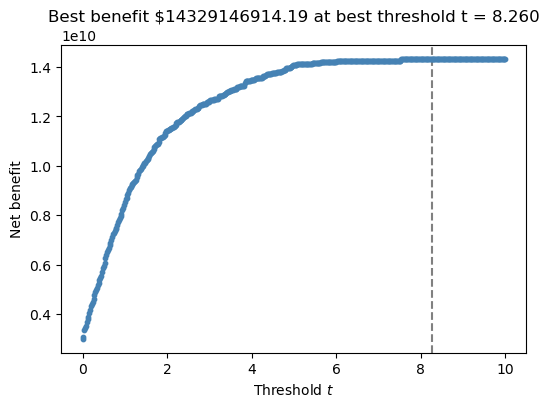
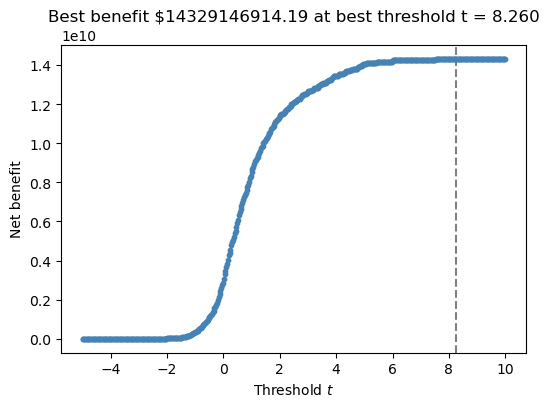
update

diff --git a/docs/posts/Blog 2/index.html b/docs/posts/Blog 2/index.html
@@ -642,7 +642,7 @@ Cross validation for the selected predictors: [0.82006543 0.82333697 0.81877729 
 <section id="optimizing-a-linear-score-classification" class="level1">
 <h1>Optimizing a Linear Score Classification</h1>
 <p>Start by defining our linear score function using our weight vector and our classification function with an arbitrary starting threshold. We will then optimize this threshold such that the bank makes the largest possible profit per loan.</p>
-<div id="cell-25" class="cell" data-execution_count="38">
+<div id="cell-25" class="cell" data-execution_count="46">
 <div class="sourceCode cell-code" id="cb15"><pre class="sourceCode python code-with-copy"><code class="sourceCode python"><span id="cb15-1"><a href="#cb15-1" aria-hidden="true" tabindex="-1"></a><span class="im">from</span> matplotlib <span class="im">import</span> pyplot <span class="im">as</span> plt</span>
 <span id="cb15-2"><a href="#cb15-2" aria-hidden="true" tabindex="-1"></a></span>
 <span id="cb15-3"><a href="#cb15-3" aria-hidden="true" tabindex="-1"></a><span class="co"># Performs the dot product between the data vector X and the weight vector w</span></span>
@@ -666,7 +666,7 @@ Cross validation for the selected predictors: [0.82006543 0.82333697 0.81877729 
 <span id="cb15-21"><a href="#cb15-21" aria-hidden="true" tabindex="-1"></a>scores <span class="op">=</span> score(X_model[true_predictors], w)</span>
 <span id="cb15-22"><a href="#cb15-22" aria-hidden="true" tabindex="-1"></a></span>
 <span id="cb15-23"><a href="#cb15-23" aria-hidden="true" tabindex="-1"></a>fig, ax <span class="op">=</span> plt.subplots(<span class="dv">1</span>, <span class="dv">1</span>, figsize <span class="op">=</span> (<span class="dv">6</span>, <span class="dv">4</span>))</span>
-<span id="cb15-24"><a href="#cb15-24" aria-hidden="true" tabindex="-1"></a><span class="cf">for</span> t <span class="kw">in</span> np.linspace(<span class="dv">0</span>, <span class="dv">10</span>, <span class="dv">501</span>):</span>
+<span id="cb15-24"><a href="#cb15-24" aria-hidden="true" tabindex="-1"></a><span class="cf">for</span> t <span class="kw">in</span> np.linspace(<span class="op">-</span><span class="dv">5</span>, <span class="dv">10</span>, <span class="dv">501</span>):</span>
 <span id="cb15-25"><a href="#cb15-25" aria-hidden="true" tabindex="-1"></a>    X_model[<span class="st">"y_pred"</span>] <span class="op">=</span> scores <span class="op">&gt;=</span> t</span>
 <span id="cb15-26"><a href="#cb15-26" aria-hidden="true" tabindex="-1"></a></span>
 <span id="cb15-27"><a href="#cb15-27" aria-hidden="true" tabindex="-1"></a>    X_model[<span class="st">"tn"</span>] <span class="op">=</span> (X_model[<span class="st">"y_pred"</span>] <span class="op">==</span> <span class="dv">0</span>) <span class="op">&amp;</span> (y_train <span class="op">==</span> <span class="dv">0</span>)</span>
@@ -692,6 +692,46 @@ Cross validation for the selected predictors: [0.82006543 0.82333697 0.81877729 
 </div>
 </div>
 </div>
+<p>Maximization of the bank’s profit results in a threshold of 8.260, this value has been stored as the best threshold. Lets now test the model with our optimal weight vector and threshold against new testing data.</p>
+<div id="cell-27" class="cell">
+<div class="sourceCode cell-code" id="cb16"><pre class="sourceCode python code-with-copy"><code class="sourceCode python"><span id="cb16-1"><a href="#cb16-1" aria-hidden="true" tabindex="-1"></a>url <span class="op">=</span> <span class="st">"https://raw.githubusercontent.com/PhilChodrow/ml-notes/main/data/credit-risk/test.csv"</span></span>
+<span id="cb16-2"><a href="#cb16-2" aria-hidden="true" tabindex="-1"></a>df_test <span class="op">=</span> pd.read_csv(url)</span>
+<span id="cb16-3"><a href="#cb16-3" aria-hidden="true" tabindex="-1"></a></span>
+<span id="cb16-4"><a href="#cb16-4" aria-hidden="true" tabindex="-1"></a>df_test <span class="op">=</span> df_test.dropna()</span>
+<span id="cb16-5"><a href="#cb16-5" aria-hidden="true" tabindex="-1"></a><span class="co"># Create binary indicators for past defaults</span></span>
+<span id="cb16-6"><a href="#cb16-6" aria-hidden="true" tabindex="-1"></a>df_test[<span class="st">"past_default_yes"</span>] <span class="op">=</span> df_test[<span class="st">"cb_person_default_on_file"</span>] <span class="op">==</span> <span class="st">"Y"</span></span>
+<span id="cb16-7"><a href="#cb16-7" aria-hidden="true" tabindex="-1"></a>df_test[<span class="st">"past_default_no"</span>] <span class="op">=</span> df_test[<span class="st">"cb_person_default_on_file"</span>] <span class="op">==</span> <span class="st">"N"</span></span>
+<span id="cb16-8"><a href="#cb16-8" aria-hidden="true" tabindex="-1"></a></span>
+<span id="cb16-9"><a href="#cb16-9" aria-hidden="true" tabindex="-1"></a><span class="co"># Generate weighted default predictor</span></span>
+<span id="cb16-10"><a href="#cb16-10" aria-hidden="true" tabindex="-1"></a>df_test[<span class="st">"weighted_default"</span>] <span class="op">=</span> df_test[<span class="st">"loan_percent_income"</span>] <span class="op">*</span> (<span class="dv">1</span> <span class="op">+</span>  df_test[<span class="st">"past_default_yes"</span>])</span>
+<span id="cb16-11"><a href="#cb16-11" aria-hidden="true" tabindex="-1"></a></span>
+<span id="cb16-12"><a href="#cb16-12" aria-hidden="true" tabindex="-1"></a><span class="co"># Generate weigthed interest rate predictor</span></span>
+<span id="cb16-13"><a href="#cb16-13" aria-hidden="true" tabindex="-1"></a>df_test[<span class="st">"weighted_interest"</span>] <span class="op">=</span> (<span class="dv">1</span> <span class="op">+</span> df_test[<span class="st">"loan_int_rate"</span>]) <span class="op">*</span> df_test[<span class="st">"loan_amnt"</span>] <span class="op">*</span> (<span class="dv">1</span> <span class="op">+</span> df_test[<span class="st">"past_default_yes"</span>])</span>
+<span id="cb16-14"><a href="#cb16-14" aria-hidden="true" tabindex="-1"></a></span>
+<span id="cb16-15"><a href="#cb16-15" aria-hidden="true" tabindex="-1"></a><span class="co"># Drop the original categorical column</span></span>
+<span id="cb16-16"><a href="#cb16-16" aria-hidden="true" tabindex="-1"></a>df_test.drop(<span class="st">"cb_person_default_on_file"</span>, axis<span class="op">=</span><span class="dv">1</span>, inplace<span class="op">=</span><span class="va">True</span>)</span>
+<span id="cb16-17"><a href="#cb16-17" aria-hidden="true" tabindex="-1"></a></span>
+<span id="cb16-18"><a href="#cb16-18" aria-hidden="true" tabindex="-1"></a><span class="co"># initialize the benefit column</span></span>
+<span id="cb16-19"><a href="#cb16-19" aria-hidden="true" tabindex="-1"></a>df_test[<span class="st">"benefit"</span>] <span class="op">=</span> <span class="dv">0</span></span>
+<span id="cb16-20"><a href="#cb16-20" aria-hidden="true" tabindex="-1"></a></span>
+<span id="cb16-21"><a href="#cb16-21" aria-hidden="true" tabindex="-1"></a><span class="co"># calculate the score array</span></span>
+<span id="cb16-22"><a href="#cb16-22" aria-hidden="true" tabindex="-1"></a>scores <span class="op">=</span> score(df_test[true_predictors],w)</span>
+<span id="cb16-23"><a href="#cb16-23" aria-hidden="true" tabindex="-1"></a></span>
+<span id="cb16-24"><a href="#cb16-24" aria-hidden="true" tabindex="-1"></a>df_test[<span class="st">"y_pred"</span>] <span class="op">=</span> scores <span class="op">&gt;=</span> best_threshold</span>
+<span id="cb16-25"><a href="#cb16-25" aria-hidden="true" tabindex="-1"></a></span>
+<span id="cb16-26"><a href="#cb16-26" aria-hidden="true" tabindex="-1"></a>df_test[<span class="st">"tn"</span>] <span class="op">=</span> (df_test[<span class="st">"y_pred"</span>] <span class="op">==</span> <span class="dv">0</span>) <span class="op">&amp;</span> (df_test[<span class="st">"loan_status"</span>] <span class="op">==</span> <span class="dv">0</span>)    </span>
+<span id="cb16-27"><a href="#cb16-27" aria-hidden="true" tabindex="-1"></a>df_test[<span class="st">"fn"</span>] <span class="op">=</span> (df_test[<span class="st">"y_pred"</span>] <span class="op">==</span> <span class="dv">0</span>) <span class="op">&amp;</span> (df_test[<span class="st">"loan_status"</span>] <span class="op">==</span> <span class="dv">1</span>)</span>
+<span id="cb16-28"><a href="#cb16-28" aria-hidden="true" tabindex="-1"></a>    </span>
+<span id="cb16-29"><a href="#cb16-29" aria-hidden="true" tabindex="-1"></a>df_test[<span class="st">"benefit"</span>][df_test[<span class="st">"tn"</span>]] <span class="op">=</span> df_test[<span class="st">"loan_amnt"</span>] <span class="op">*</span> (<span class="dv">1</span> <span class="op">+</span> <span class="fl">0.25</span> <span class="op">*</span> df_test[<span class="st">"loan_int_rate"</span>]) <span class="op">**</span> <span class="dv">10</span> <span class="op">-</span> df_test[<span class="st">"loan_amnt"</span>]</span>
+<span id="cb16-30"><a href="#cb16-30" aria-hidden="true" tabindex="-1"></a>df_test[<span class="st">"benefit"</span>][df_test[<span class="st">"fn"</span>]] <span class="op">=</span> df_test[<span class="st">"loan_amnt"</span>] <span class="op">*</span> (<span class="dv">1</span> <span class="op">+</span> <span class="fl">0.25</span> <span class="op">*</span> df_test[<span class="st">"loan_int_rate"</span>]) <span class="op">**</span> <span class="dv">3</span> <span class="op">-</span> <span class="fl">1.7</span> <span class="op">*</span> df_test[<span class="st">"loan_amnt"</span>]</span>
+<span id="cb16-31"><a href="#cb16-31" aria-hidden="true" tabindex="-1"></a></span>
+<span id="cb16-32"><a href="#cb16-32" aria-hidden="true" tabindex="-1"></a>average_benefit <span class="op">=</span> np.<span class="bu">sum</span>(df_test[<span class="st">"benefit"</span>]) <span class="op">/</span> <span class="bu">len</span>(df_test)</span>
+<span id="cb16-33"><a href="#cb16-33" aria-hidden="true" tabindex="-1"></a><span class="bu">print</span>(<span class="st">"The expected profit per buyer is: "</span> <span class="op">+</span> <span class="bu">str</span>(average_benefit))</span></code><button title="Copy to Clipboard" class="code-copy-button"><i class="bi"></i></button></pre></div>
+<div class="cell-output cell-output-stdout">
+<pre><code>The expected profit per buyer is: 14236812169.516094</code></pre>
+</div>
+</div>
+<p>The expected profit per buyer on the test set is almost identical to the expected profit per buyer on the test set.</p>
 
 
 </section>

diff --git a/docs/index.html b/docs/index.html
@@ -223,7 +223,7 @@ window.Quarto = {
 
 <div class="quarto-listing quarto-listing-container-default" id="listing-listing">
 <div class="list quarto-listing-default">
-<div class="quarto-post image-right" data-index="0" data-listing-date-sort="1709614800000" data-listing-file-modified-sort="1740962070298" data-listing-date-modified-sort="NaN" data-listing-reading-time-sort="3" data-listing-word-count-sort="593">
+<div class="quarto-post image-right" data-index="0" data-listing-date-sort="1709614800000" data-listing-file-modified-sort="1740964193247" data-listing-date-modified-sort="NaN" data-listing-reading-time-sort="4" data-listing-word-count-sort="650">
 <div class="thumbnail">
 <p><a href="./posts/Blog 2/index.html" class="no-external"></a></p><a href="./posts/Blog 2/index.html" class="no-external">
 <p><img loading="lazy" src="./posts/Blog 2/image.jpg" class="thumbnail-image"></p>
